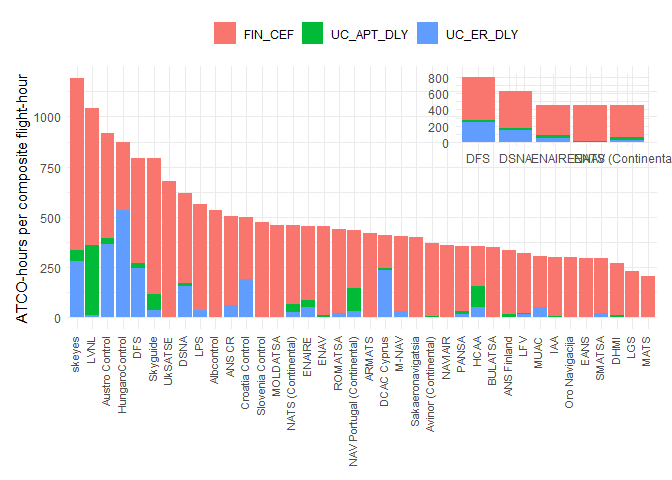
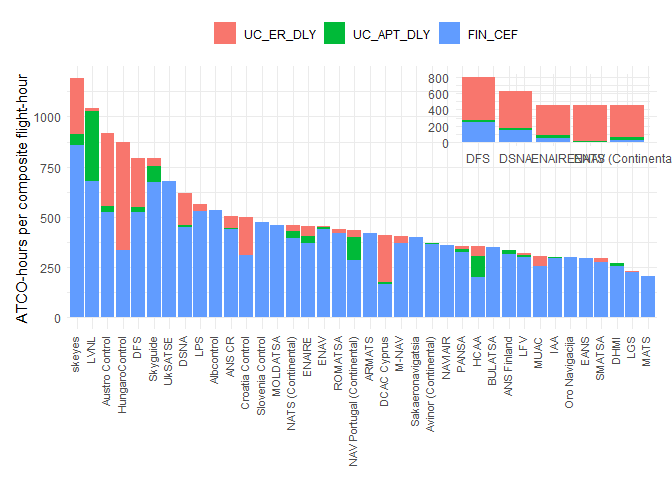
stacked bars reordered_md

Changed region(s): [[0.0938, 0.2188, 1.0, 0.6875], [0.3438, 0.0312, 0.7812, 0.0938]]

diff --git a/JC_data_plot.md b/JC_data_plot.md
@@ -96,9 +96,10 @@ Working now with tidy data
 
 ``` r
 # We plot now the tidy data
+# note the refactoring of the TYPE to change the ordering in the stacked bar
 vis1 <- tmp %>%
   ggplot()+
-  aes(x=reorder(ANSP_NAME, -value), y = value, fill = TYPE)+
+  aes(x=reorder(ANSP_NAME, -value), y = value, fill = factor(TYPE,levels=c("UC_ER_DLY", "UC_APT_DLY", "FIN_CEF")))+
   geom_col()+ 
   ##geom_text(size=3, aes(label = round(Total, digits = 2)), angle = 90, vjust = +0.5, hjust = +1)+
   theme_minimal()+
